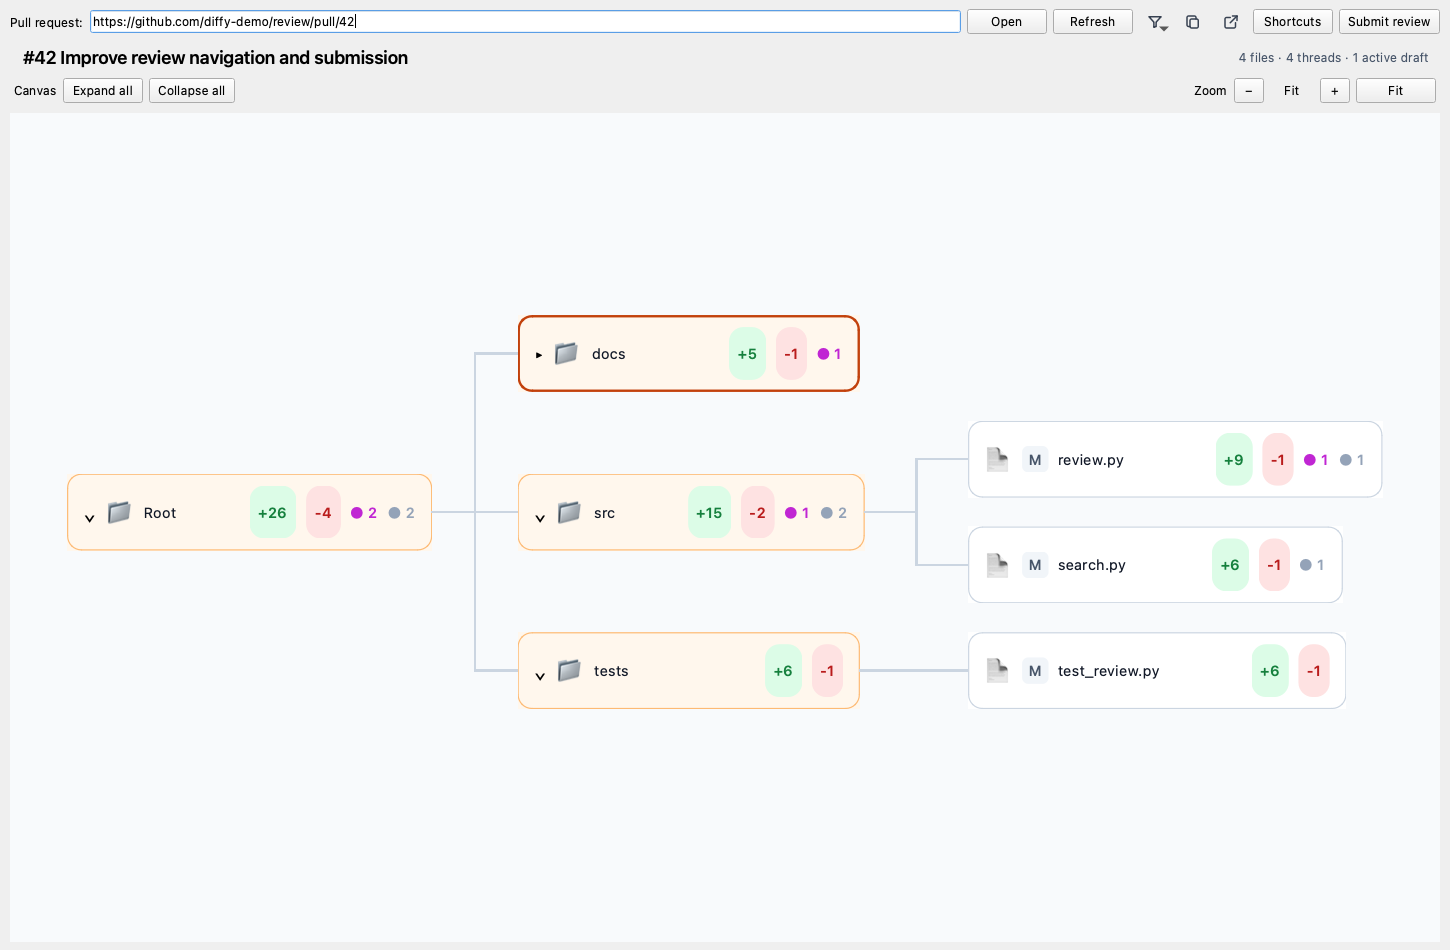
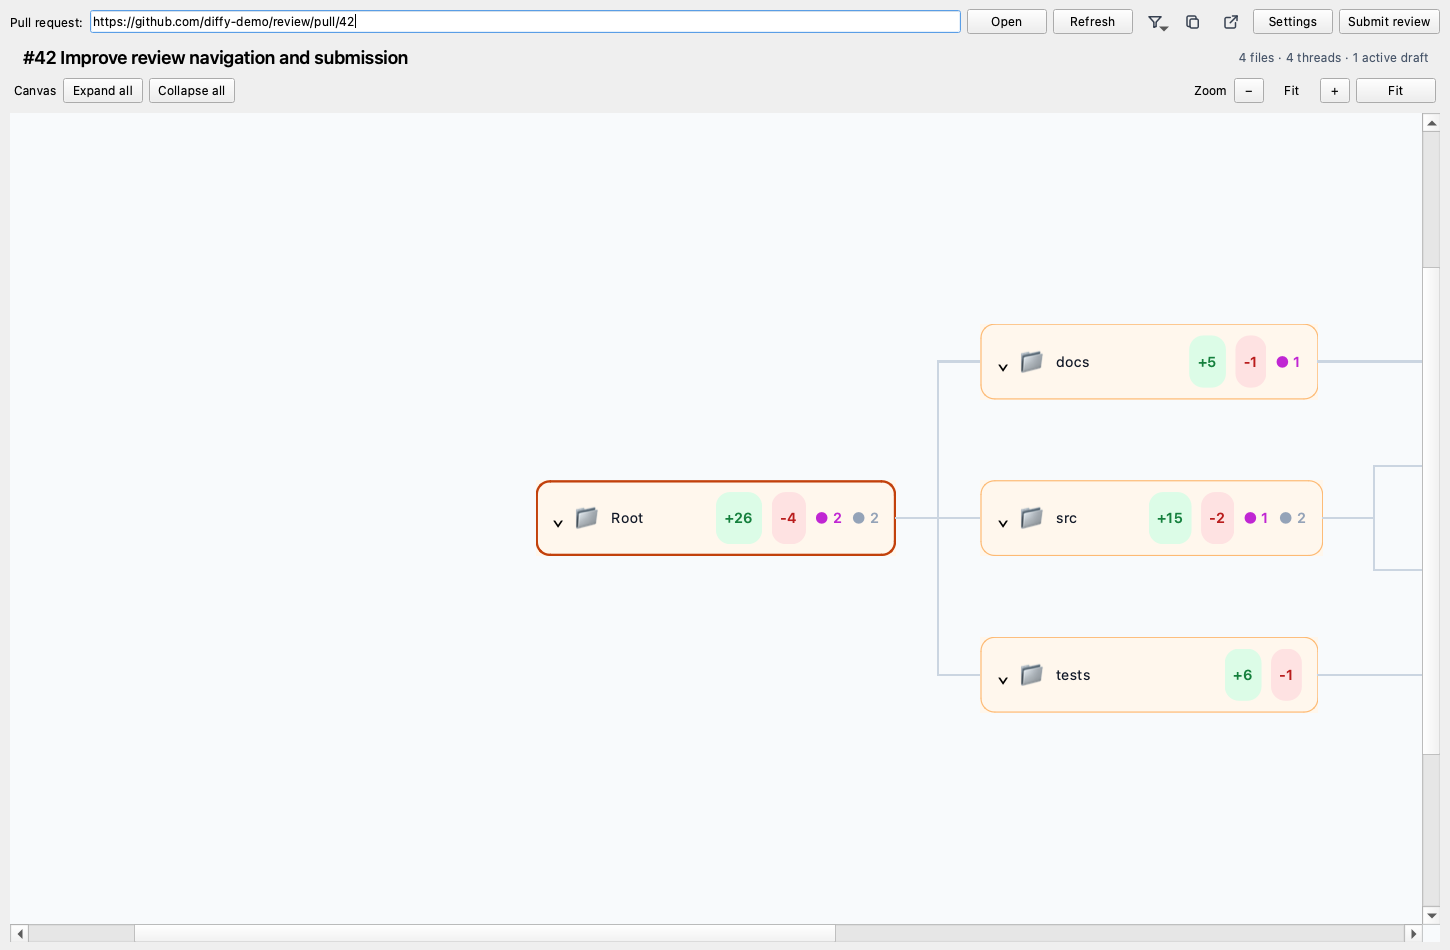
Configure canvas centering duration

diff --git a/diffy/ui/main_window.py b/diffy/ui/main_window.py
@@ -33,6 +33,7 @@ from PySide6.QtWidgets import (
     QPushButton,
     QScrollArea,
     QSizePolicy,
+    QSpinBox,
     QStackedWidget,
     QTextBrowser,
     QTextEdit,
@@ -282,10 +283,15 @@ class DiffViewer(QTextBrowser):
 
 
 class ShortcutDialog(QDialog):
-    def __init__(self, shortcuts: dict[str, QKeySequence], parent: QWidget | None = None):
+    def __init__(self, shortcuts: dict[str, QKeySequence], center_duration: int, parent: QWidget | None = None):
         super().__init__(parent)
-        self.setWindowTitle("Keyboard shortcuts")
+        self.setWindowTitle("Settings")
         self.edits: dict[str, QKeySequenceEdit] = {}
+        self.center_duration = QSpinBox()
+        self.center_duration.setRange(100, 1000)
+        self.center_duration.setSingleStep(25)
+        self.center_duration.setSuffix(" ms")
+        self.center_duration.setValue(center_duration)
         layout = QVBoxLayout(self)
         form = QFormLayout()
         for shortcut_id, label in SHORTCUT_LABELS.items():
@@ -293,6 +299,7 @@ class ShortcutDialog(QDialog):
             edit.setMaximumSequenceLength(1)
             self.edits[shortcut_id] = edit
             form.addRow(label, edit)
+        form.addRow("Canvas centering duration", self.center_duration)
         layout.addLayout(form)
         buttons = QDialogButtonBox(QDialogButtonBox.StandardButton.Cancel | QDialogButtonBox.StandardButton.Ok)
         reset_button = buttons.addButton("Restore defaults", QDialogButtonBox.ButtonRole.ResetRole)
@@ -319,6 +326,9 @@ class ShortcutDialog(QDialog):
 
     def values(self) -> dict[str, QKeySequence]:
         return {shortcut_id: edit.keySequence() for shortcut_id, edit in self.edits.items()}
+
+    def centering_duration(self) -> int:
+        return self.center_duration.value()
 
 
 class QuickSearchDialog(QDialog):
@@ -463,6 +473,10 @@ class SpatialCanvas(QGraphicsView):
         self.node_proxies: dict[TreeNodeWidget, QGraphicsProxyWidget] = {}
         self.focused_node: TreeNodeWidget | None = None
         self.center_animation: QParallelAnimationGroup | None = None
+        self.center_duration = 350
+
+    def set_center_duration(self, duration: int) -> None:
+        self.center_duration = max(100, min(1000, duration))
 
     def set_shortcuts(self, shortcuts: dict[str, QKeySequence]) -> None:
         self.shortcuts = dict(shortcuts)
@@ -792,7 +806,7 @@ class SpatialCanvas(QGraphicsView):
             if start == end:
                 continue
             property_animation = QPropertyAnimation(scrollbar, b"value", animation)
-            property_animation.setDuration(180)
+            property_animation.setDuration(self.center_duration)
             property_animation.setStartValue(start)
             property_animation.setEndValue(end)
             property_animation.setEasingCurve(QEasingCurve.Type.OutCubic)
@@ -1054,6 +1068,7 @@ class MainWindow(QMainWindow):
         self.selected_thread: ReviewThread | None = None
         self.hidden_reviewers: set[str] = set()
         self.settings = QSettings("namuan", "diffy")
+        self.center_duration = self._load_center_duration()
         self.shortcut_sequences = self._load_shortcuts()
         self._build_ui()
         if initial_ref:
@@ -1092,7 +1107,8 @@ class MainWindow(QMainWindow):
         self.copy_pr_button.clicked.connect(self.copy_pull_request)
         self.browser_button = self._create_tool_button("external-link.svg", "Open pull request in browser")
         self.browser_button.clicked.connect(self.open_pull_request_in_browser)
-        self.shortcuts_button = QPushButton("Shortcuts")
+        self.shortcuts_button = QPushButton("Settings")
+        self.shortcuts_button.setToolTip("Configure shortcuts and Canvas behavior")
         self.shortcuts_button.clicked.connect(self.show_shortcut_settings)
         toolbar.addWidget(self.reviewer_filter_button)
         toolbar.addWidget(self.copy_pr_button)
@@ -1149,6 +1165,7 @@ class MainWindow(QMainWindow):
         canvas_toolbar.addWidget(self.canvas_fit_button)
         canvas_layout.addLayout(canvas_toolbar)
         self.canvas = SpatialCanvas()
+        self.canvas.set_center_duration(self.center_duration)
         self.canvas.set_shortcuts(self.shortcut_sequences)
         self.canvas.file_selected.connect(self.open_diff)
         self.canvas.zoom_changed.connect(self._update_canvas_zoom_label)
@@ -1226,6 +1243,12 @@ class MainWindow(QMainWindow):
         self.refresh_action.triggered.connect(self.refresh)
         self.addAction(self.refresh_action)
 
+    def _load_center_duration(self) -> int:
+        try:
+            return max(100, min(1000, int(self.settings.value("canvas/center_duration", 350))))
+        except (TypeError, ValueError):
+            return 350
+
     def _load_shortcuts(self) -> dict[str, QKeySequence]:
         shortcuts = {}
         for shortcut_id, default in SHORTCUT_DEFAULTS.items():
@@ -1234,10 +1257,13 @@ class MainWindow(QMainWindow):
         return shortcuts
 
     def show_shortcut_settings(self) -> None:
-        dialog = ShortcutDialog(self.shortcut_sequences, self)
+        dialog = ShortcutDialog(self.shortcut_sequences, self.center_duration, self)
         if dialog.exec() != QDialog.DialogCode.Accepted:
             return
         self.shortcut_sequences = dialog.values()
+        self.center_duration = dialog.centering_duration()
+        self.canvas.set_center_duration(self.center_duration)
+        self.settings.setValue("canvas/center_duration", self.center_duration)
         for shortcut_id, shortcut in self.shortcut_sequences.items():
             self.settings.setValue(
                 f"shortcuts/{shortcut_id}",

diff --git a/scripts/generate_product_tour.py b/scripts/generate_product_tour.py
@@ -280,7 +280,7 @@ def generate() -> list[tuple[str, str, str]]:
         QTimer.singleShot(0, capture_shortcut_dialog)
         window.show_shortcut_settings()
         process_events(application)
-        entries.append(("07-shortcuts.png", "Configurable shortcuts", "Configure every keyboard shortcut in one dialog; settings are saved for the next launch."))
+        entries.append(("07-shortcuts.png", "Configurable shortcuts and Canvas behavior", "Configure every keyboard shortcut and the Canvas centering duration in one dialog; settings are saved for the next launch."))
 
         def capture_submit_dialog() -> None:
             dialog = visible_dialog()

diff --git a/docs/product-tour.md b/docs/product-tour.md
@@ -38,11 +38,11 @@ Hide comments from selected reviewers while keeping the diff and canvas counts i
 
 ![Reviewer filtering](../assets/product-tour/06-reviewer-filter.png)
 
-## Configurable shortcuts
+## Configurable shortcuts and Canvas behavior
 
-Configure every keyboard shortcut in one dialog; settings are saved for the next launch.
+Configure every keyboard shortcut and the Canvas centering duration in one dialog; settings are saved for the next launch.
 
-![Configurable shortcuts](../assets/product-tour/07-shortcuts.png)
+![Configurable shortcuts and Canvas behavior](../assets/product-tour/07-shortcuts.png)
 
 ## Submit review
 
